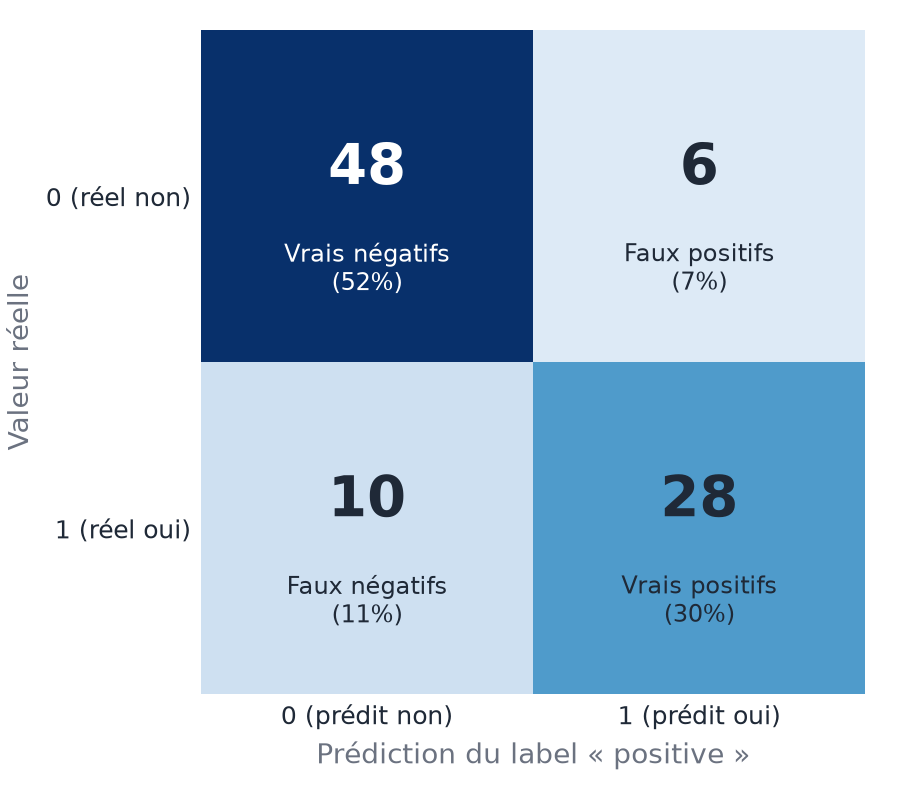
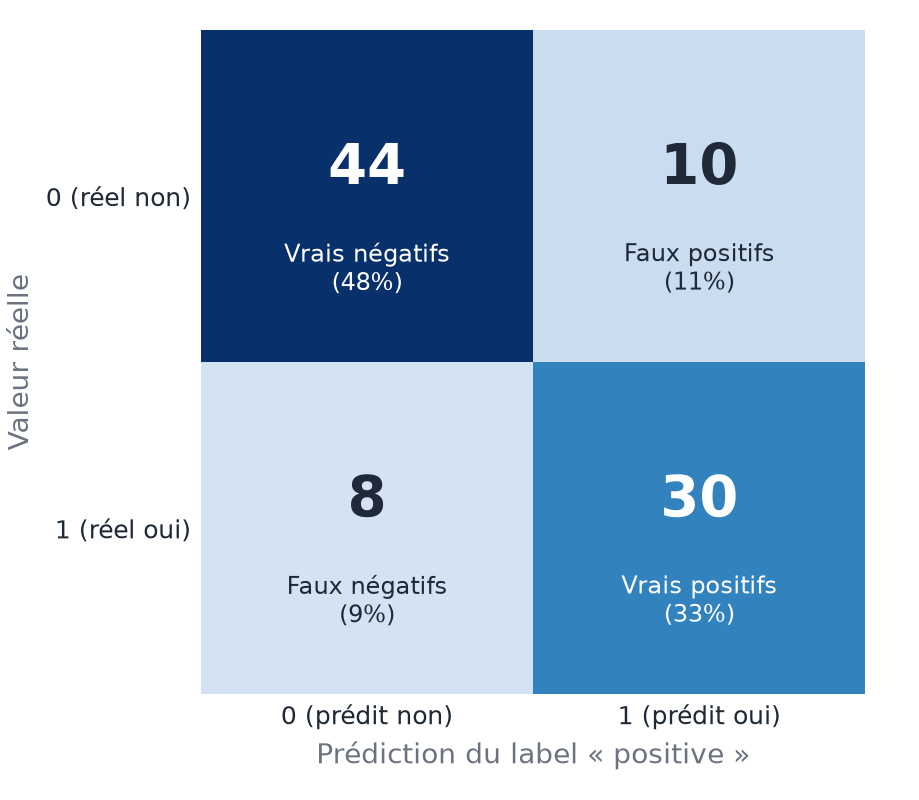
Calibration des seuils de decision et corrections du rapport
- Seuils de decision par label calibres par validation croisee sur le
  train (maximisation du F1 de la classe 1) : rappel classe 1 de 73.7%
  a 78.9% (positive) et de 71.4% a 94.3% (negative), F1 negative +4.9 pts
- Seuils sauvegardes dans metrics.json et documentes dans le rapport
- Rapport : taille du dataset desormais dynamique (460 tweets au lieu
  du "~400" code en dur), analyse et recommandations mises a jour
- README : documentation de la calibration des seuils

diff --git a/src/model.py b/src/model.py
@@ -7,13 +7,24 @@ TF-IDF :
 
 Le score de sentiment d'un tweet est : P(positif) - P(négatif), borné
 naturellement dans [-1, 1] (-1 très négatif, 1 très positif).
+
+Les labels binaires (predict_labels) utilisent un seuil de décision propre à
+chaque classifieur, calibré par validation croisée sur le jeu d'entraînement
+(maximisation du F1-score de la classe 1) : cela compense le déséquilibre des
+classes et améliore le rappel des classes minoritaires par rapport au seuil
+fixe de 0.5.
 """
 
 from pathlib import Path
 
 import joblib
+import numpy as np
+from sklearn.base import clone
 from sklearn.feature_extraction.text import TfidfVectorizer
 from sklearn.linear_model import LogisticRegression
+from sklearn.metrics import f1_score
+from sklearn.model_selection import StratifiedKFold, cross_val_predict
+from sklearn.pipeline import make_pipeline
 
 MODEL_DIR = Path(__file__).resolve().parent.parent / "models"
 MODEL_FILE = MODEL_DIR / "sentiment_model.joblib"
@@ -40,9 +51,25 @@ class SentimentModel:
         self.clf_negative = LogisticRegression(
             max_iter=2000, C=5.0, class_weight="balanced"
         )
+        # Seuils de décision des labels, calibrés pendant fit().
+        self.threshold_positive = 0.5
+        self.threshold_negative = 0.5
+
+    def _calibrate_threshold(self, texts, y) -> float:
+        """Choisit le seuil maximisant le F1 de la classe 1, par validation
+        croisée sur le jeu d'entraînement (probabilités out-of-fold, donc sans
+        fuite vers le jeu de validation)."""
+        pipeline = make_pipeline(clone(self.vectorizer), clone(self.clf_positive))
+        cv = StratifiedKFold(n_splits=5, shuffle=True, random_state=42)
+        proba = cross_val_predict(pipeline, texts, y, cv=cv, method="predict_proba")[:, 1]
+        thresholds = np.arange(0.30, 0.66, 0.01)
+        scores = [f1_score(y, (proba >= t).astype(int)) for t in thresholds]
+        return float(thresholds[int(np.argmax(scores))])
 
     def fit(self, texts, y_positive, y_negative):
-        """Entraîne les deux classifieurs sur les tweets annotés."""
+        """Entraîne les deux classifieurs et calibre leurs seuils de décision."""
+        self.threshold_positive = self._calibrate_threshold(texts, y_positive)
+        self.threshold_negative = self._calibrate_threshold(texts, y_negative)
         X = self.vectorizer.fit_transform(texts)
         self.clf_positive.fit(X, y_positive)
         self.clf_negative.fit(X, y_negative)
@@ -56,9 +83,12 @@ class SentimentModel:
         return (proba_pos - proba_neg).tolist()
 
     def predict_labels(self, texts):
-        """Retourne les labels binaires prédits (positive, negative) par texte."""
+        """Retourne les labels binaires prédits (positive, negative) par texte,
+        en appliquant les seuils de décision calibrés."""
         X = self.vectorizer.transform(texts)
-        return self.clf_positive.predict(X), self.clf_negative.predict(X)
+        pred_pos = (self.clf_positive.predict_proba(X)[:, 1] >= self.threshold_positive).astype(int)
+        pred_neg = (self.clf_negative.predict_proba(X)[:, 1] >= self.threshold_negative).astype(int)
+        return pred_pos, pred_neg
 
     def save(self, path: Path = MODEL_FILE) -> Path:
         """Sauvegarde le modèle entraîné sur disque (joblib)."""

diff --git a/report/generate_report.py b/report/generate_report.py
@@ -197,7 +197,17 @@ def build_pdf(metrics: dict) -> None:
         "frappe. Un premier classifieur prédit le label "
         "« positive », un second le label « negative » ; le score de sentiment "
         "renvoyé par l'API est la différence P(positif) - P(négatif), comprise "
-        "entre -1 (très négatif) et 1 (très positif)."
+        "entre -1 (très négatif) et 1 (très positif). Le seuil de décision de "
+        "chaque classifieur est calibré par validation croisée sur le jeu "
+        "d'entraînement (maximisation du F1-score de la classe 1"
+        + (
+            f" ; seuils retenus : {metrics['thresholds']['positive']:.2f} pour "
+            f"« positive », {metrics['thresholds']['negative']:.2f} pour "
+            "« negative »)"
+            if "thresholds" in metrics
+            else ")"
+        )
+        + ", afin de compenser le déséquilibre des classes."
     )
     pdf.body(
         f"Le dataset compte {metrics['dataset_size']} tweets annotés, séparés en "
@@ -264,13 +274,15 @@ def build_pdf(metrics: dict) -> None:
         "Tweets mitigés (positifs ET négatifs, ex. « hôtel magnifique mais "
         "service désastreux ») : les deux classifieurs peuvent s'activer "
         "simultanément et le score proche de 0 masque la double polarité.",
-        "Biais de vocabulaire : le dataset (~400 tweets) reste petit ; un mot "
+        f"Biais de vocabulaire : le dataset ({metrics['dataset_size']} tweets) reste petit ; un mot "
         "absent de l'entraînement (argot, faute d'orthographe, emoji) est "
         "ignoré par le TF-IDF, ce qui pousse la prédiction vers la classe "
         "majoritaire (neutre).",
         "Déséquilibre de classes : environ un tiers seulement des tweets porte "
-        "chaque label ; le rappel de la classe 1 en pâtit mécaniquement par "
-        "rapport à la classe 0.",
+        "chaque label. La calibration des seuils de décision relève le rappel "
+        "de la classe 1, mais au prix d'une précision moindre : le modèle "
+        "détecte davantage de tweets polarisés en acceptant plus de fausses "
+        "alertes.",
     ):
         pdf.bullet(point)
     pdf.ln(2)
@@ -289,11 +301,13 @@ def build_pdf(metrics: dict) -> None:
         "Passer à des représentations contextuelles : un modèle de type "
         "CamemBERT (fine-tuné ou utilisé comme encodeur devant la régression "
         "logistique) capture ironie et contexte bien mieux que le TF-IDF.",
-        "Calibrer les seuils de décision : le rééquilibrage des classes "
-        "(class_weight='balanced') est déjà en place ; l'étape suivante est "
-        "d'ajuster les seuils par classe (courbes précision/rappel) et de "
-        "généraliser l'évaluation par validation croisée plutôt que par un "
-        "unique split.",
+        "Affiner la calibration : le rééquilibrage des classes "
+        "(class_weight='balanced') et les seuils de décision par classe "
+        "(calibrés par validation croisée, maximisation du F1) sont en place ; "
+        "l'étape suivante est de choisir le compromis précision/rappel selon "
+        "le besoin métier (courbes précision/rappel) et de généraliser "
+        "l'évaluation finale par validation croisée plutôt que par un unique "
+        "split.",
         "Suivre les performances dans le temps : historiser les métriques à "
         "chaque réentraînement hebdomadaire pour détecter toute dérive du "
         "modèle ou du vocabulaire des tweets.",

diff --git a/src/train.py b/src/train.py
@@ -88,6 +88,10 @@ def train_and_evaluate() -> dict:
         "dataset_size": len(texts),
         "train_size": len(idx_train),
         "validation_size": len(idx_val),
+        "thresholds": {
+            "positive": model.threshold_positive,
+            "negative": model.threshold_negative,
+        },
         "positive": evaluate_label([y_pos[i] for i in idx_val], pred_pos),
         "negative": evaluate_label([y_neg[i] for i in idx_val], pred_neg),
     }

diff --git a/README.md b/README.md
@@ -240,7 +240,12 @@ croisée) :
 - le second prédit le label **`negative`**.
 
 Le score renvoyé par l'API est `P(positif) − P(négatif)`, naturellement borné
-dans `[-1, 1]`. Cette architecture à deux labels indépendants permet de gérer
+dans `[-1, 1]`. Le seuil de décision de chaque classifieur (labels binaires du
+rapport d'évaluation) est calibré à l'entraînement par validation croisée
+(maximisation du F1-score de la classe 1), ce qui compense le déséquilibre des
+classes et améliore le rappel des tweets polarisés.
+
+Cette architecture à deux labels indépendants permet de gérer
 les tweets neutres (`positive=0, negative=0`) comme les tweets mitigés
 (`positive=1, negative=1`), et de produire les deux matrices de confusion du
 rapport d'évaluation.